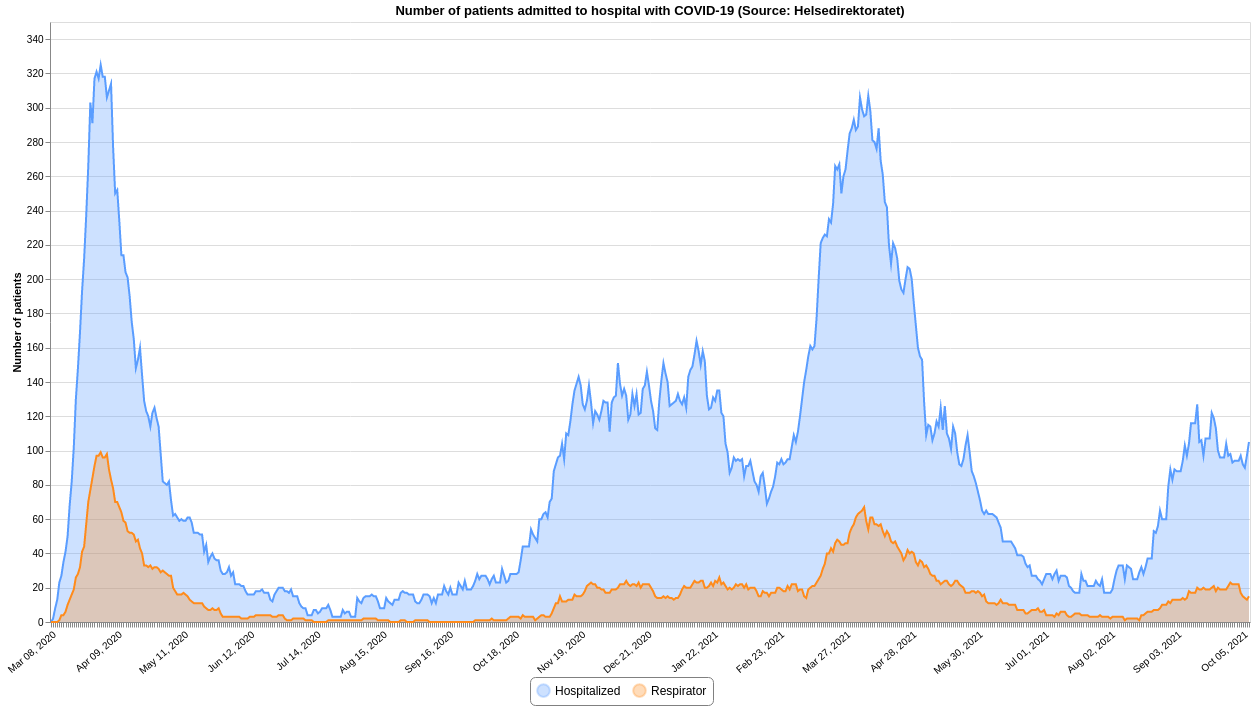
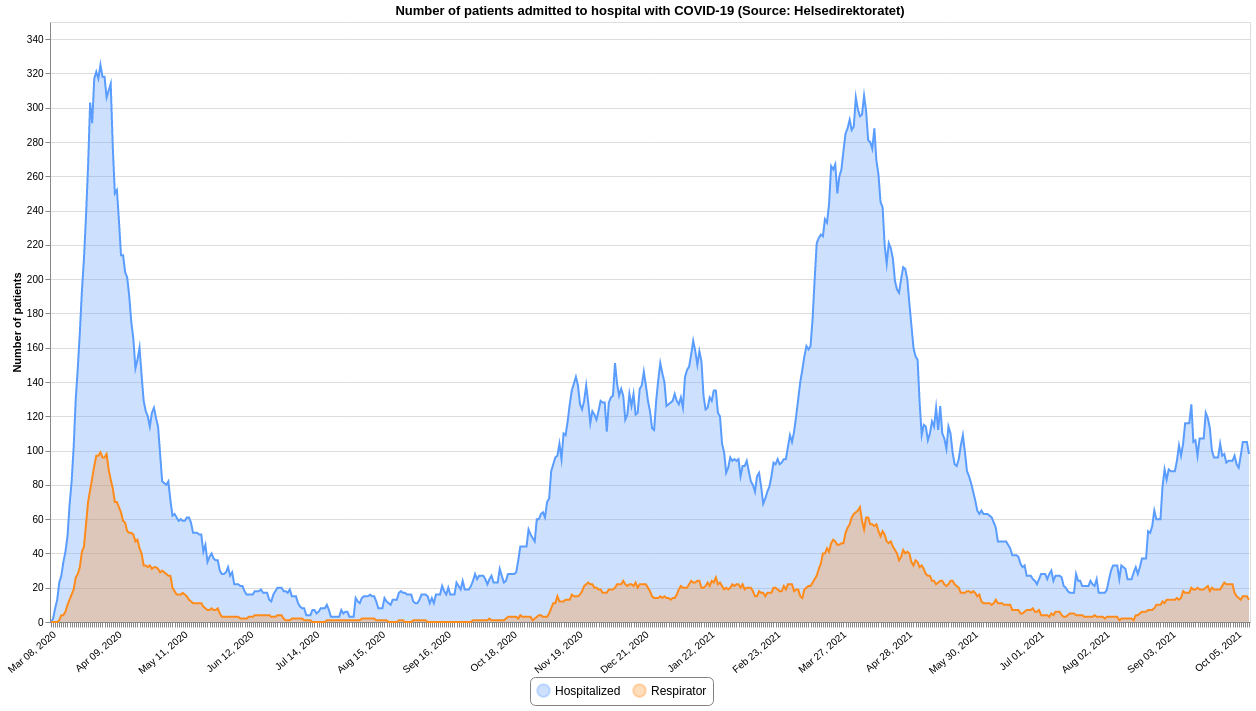
Updated 2021-10-11 13:01

diff --git a/README.md b/README.md
@@ -12,7 +12,7 @@ This repository contains datasets of daily time-series data related to COVID-19 
 | :--- | :--- | :--- | :--- | :--- |
 |[Confirmed](#confirmedcsv)|FHI / MSIS|2021-10-11 00:10:44+02:00|[<center>csv</center>](https://raw.githubusercontent.com/frefrik/covid19norge-data/main/data/confirmed.csv)|[<center>preview</center>](data/confirmed.csv)|
 |[Dead](#deadcsv)|FHI|2021-10-08 13:20:54+02:00|[<center>csv</center>](https://raw.githubusercontent.com/frefrik/covid19norge-data/main/data/dead.csv)|[<center>preview</center>](data/dead.csv)|
-|[Hospitalized](#hospitalizedcsv)|Helsedirektoratet|2021-10-08 13:01:14+02:00|[<center>csv</center>](https://raw.githubusercontent.com/frefrik/covid19norge-data/main/data/hospitalized.csv)|[<center>preview</center>](data/hospitalized.csv)|
+|[Hospitalized](#hospitalizedcsv)|Helsedirektoratet|2021-10-11 13:00:56+02:00|[<center>csv</center>](https://raw.githubusercontent.com/frefrik/covid19norge-data/main/data/hospitalized.csv)|[<center>preview</center>](data/hospitalized.csv)|
 |[Tested](#testedcsv)|FHI|2021-10-08 13:10:48+02:00|[<center>csv</center>](https://raw.githubusercontent.com/frefrik/covid19norge-data/main/data/tested.csv)|[<center>preview</center>](data/tested.csv)|
 |[Tested Lab](#tested_labcsv)|FHI|2021-10-08 13:20:49+02:00|[<center>csv</center>](https://raw.githubusercontent.com/frefrik/covid19norge-data/main/data/tested_lab.csv)|[<center>preview</center>](data/tested_lab.csv)|
 |[Transport](#transportcsv)|FHI|2021-09-24 23:10:46+02:00|[<center>csv</center>](https://raw.githubusercontent.com/frefrik/covid19norge-data/main/data/transport.csv)|[<center>preview</center>](data/transport.csv)|
